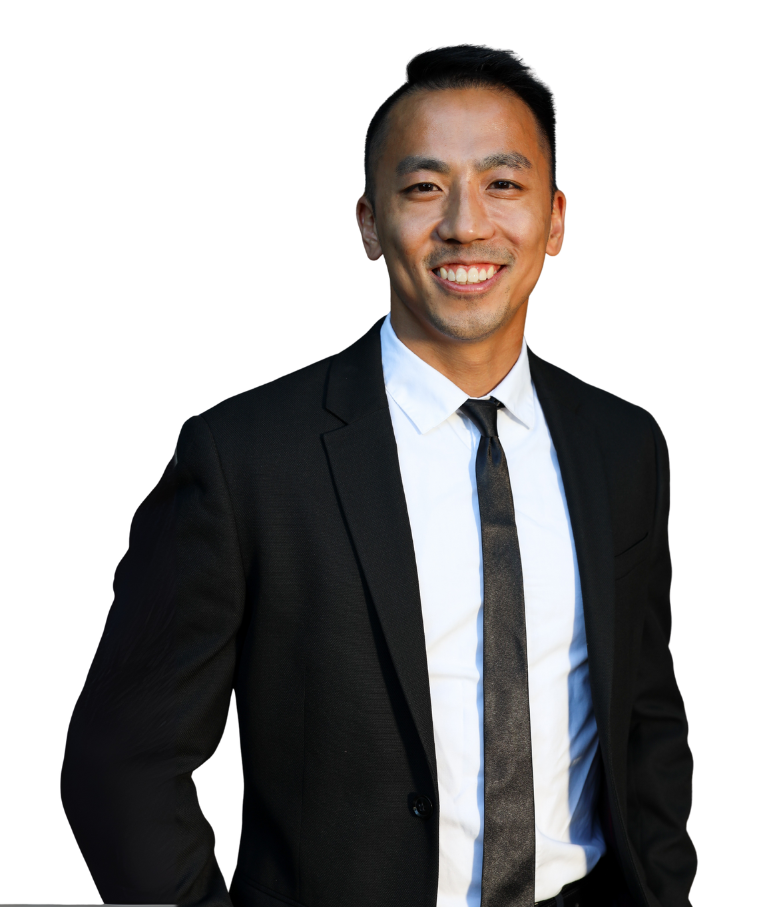
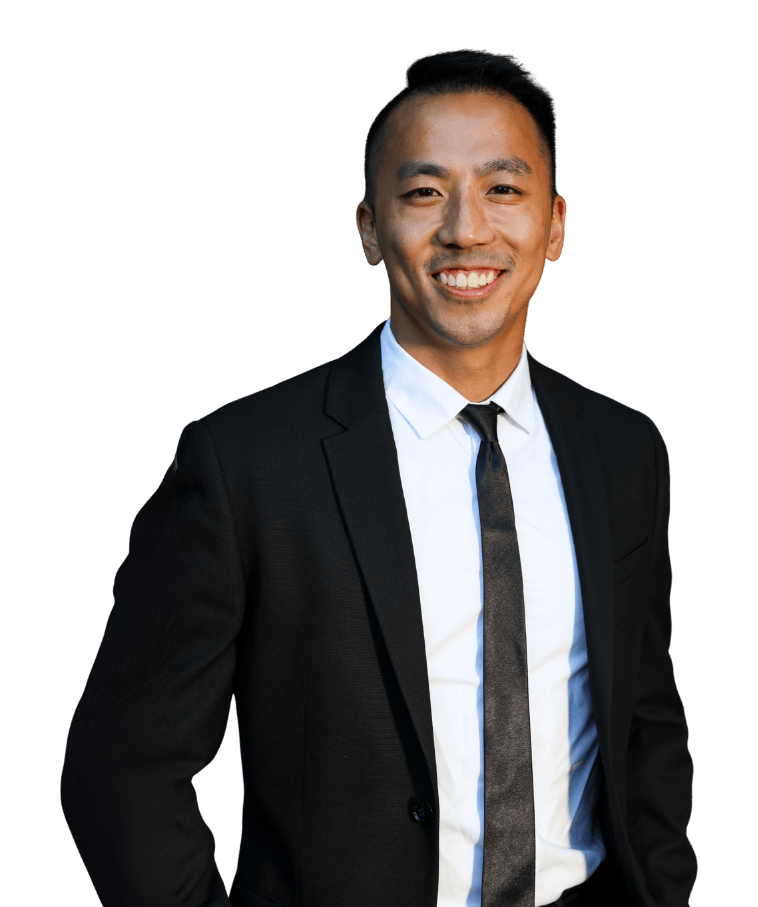
fixes and new hero img

diff --git a/src/components/InstagramSection/InstagramSection.js b/src/components/InstagramSection/InstagramSection.js
@@ -2,7 +2,6 @@ import React from "react";
 import Slider from "react-slick";
 import "slick-carousel/slick/slick.css";
 import "slick-carousel/slick/slick-theme.css";
-import { Link } from 'react-router-dom'
 import SectionTitle from "../SectionTitle/SectionTitle";
 
 
@@ -108,10 +107,6 @@ const settings = {
         }
     ]
 };
-
-const ClickHandler = () => {
-    window.scrollTo(10, 0);
-}
 
 const InstagramSection = () => {
     return (
